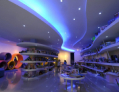
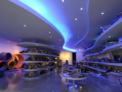
masonry pics resized

diff --git a/projects/01-step-project-ham/css/style.css b/projects/01-step-project-ham/css/style.css
@@ -261,13 +261,6 @@ body {
     z-index: 5;
 }
 
-.services-list-tab.active {
-    background-color: #18cfab;
-    outline: 1px solid #18cfab;
-    color: white;
-    border: transparent;
-    position: relative;
-}
 .services-list-tab.active::after {
     content: "";
     display: block;
@@ -279,6 +272,14 @@ body {
     position: absolute;
     top: 71px;
     box-sizing: border-box;
+}
+
+.services-list-tab.active {
+    background-color: #18cfab;
+    outline: 1px solid #18cfab;
+    color: white;
+    border: transparent;
+    position: relative;
 }
 
 .service-tab-article {
@@ -471,7 +472,6 @@ body {
 .work-img-wrapper:hover .work-img-hover {
     top: 0;
 }
-
 
 .work-img-wrapper img {
     display: block;
@@ -852,7 +852,7 @@ body {
 .inner-img-grid {
     display: flex;
     flex-wrap: wrap;
-    gap: 7px 0;
+    gap: 3px 0;
     justify-content: space-between;
 }
 

diff --git a/projects/01-step-project-ham/script/main.js b/projects/01-step-project-ham/script/main.js
@@ -1,3 +1,4 @@
+// OUR SERVICES
 const servicesTabs = document.querySelector(".services-list");
 
 servicesTabs.addEventListener("click", (e) => {
@@ -323,7 +324,5 @@ loadGalleryBtn.addEventListener('click', e => {
           spinner.classList.add('hidden');
 
     }, 2000)
-    
-
 })
 
